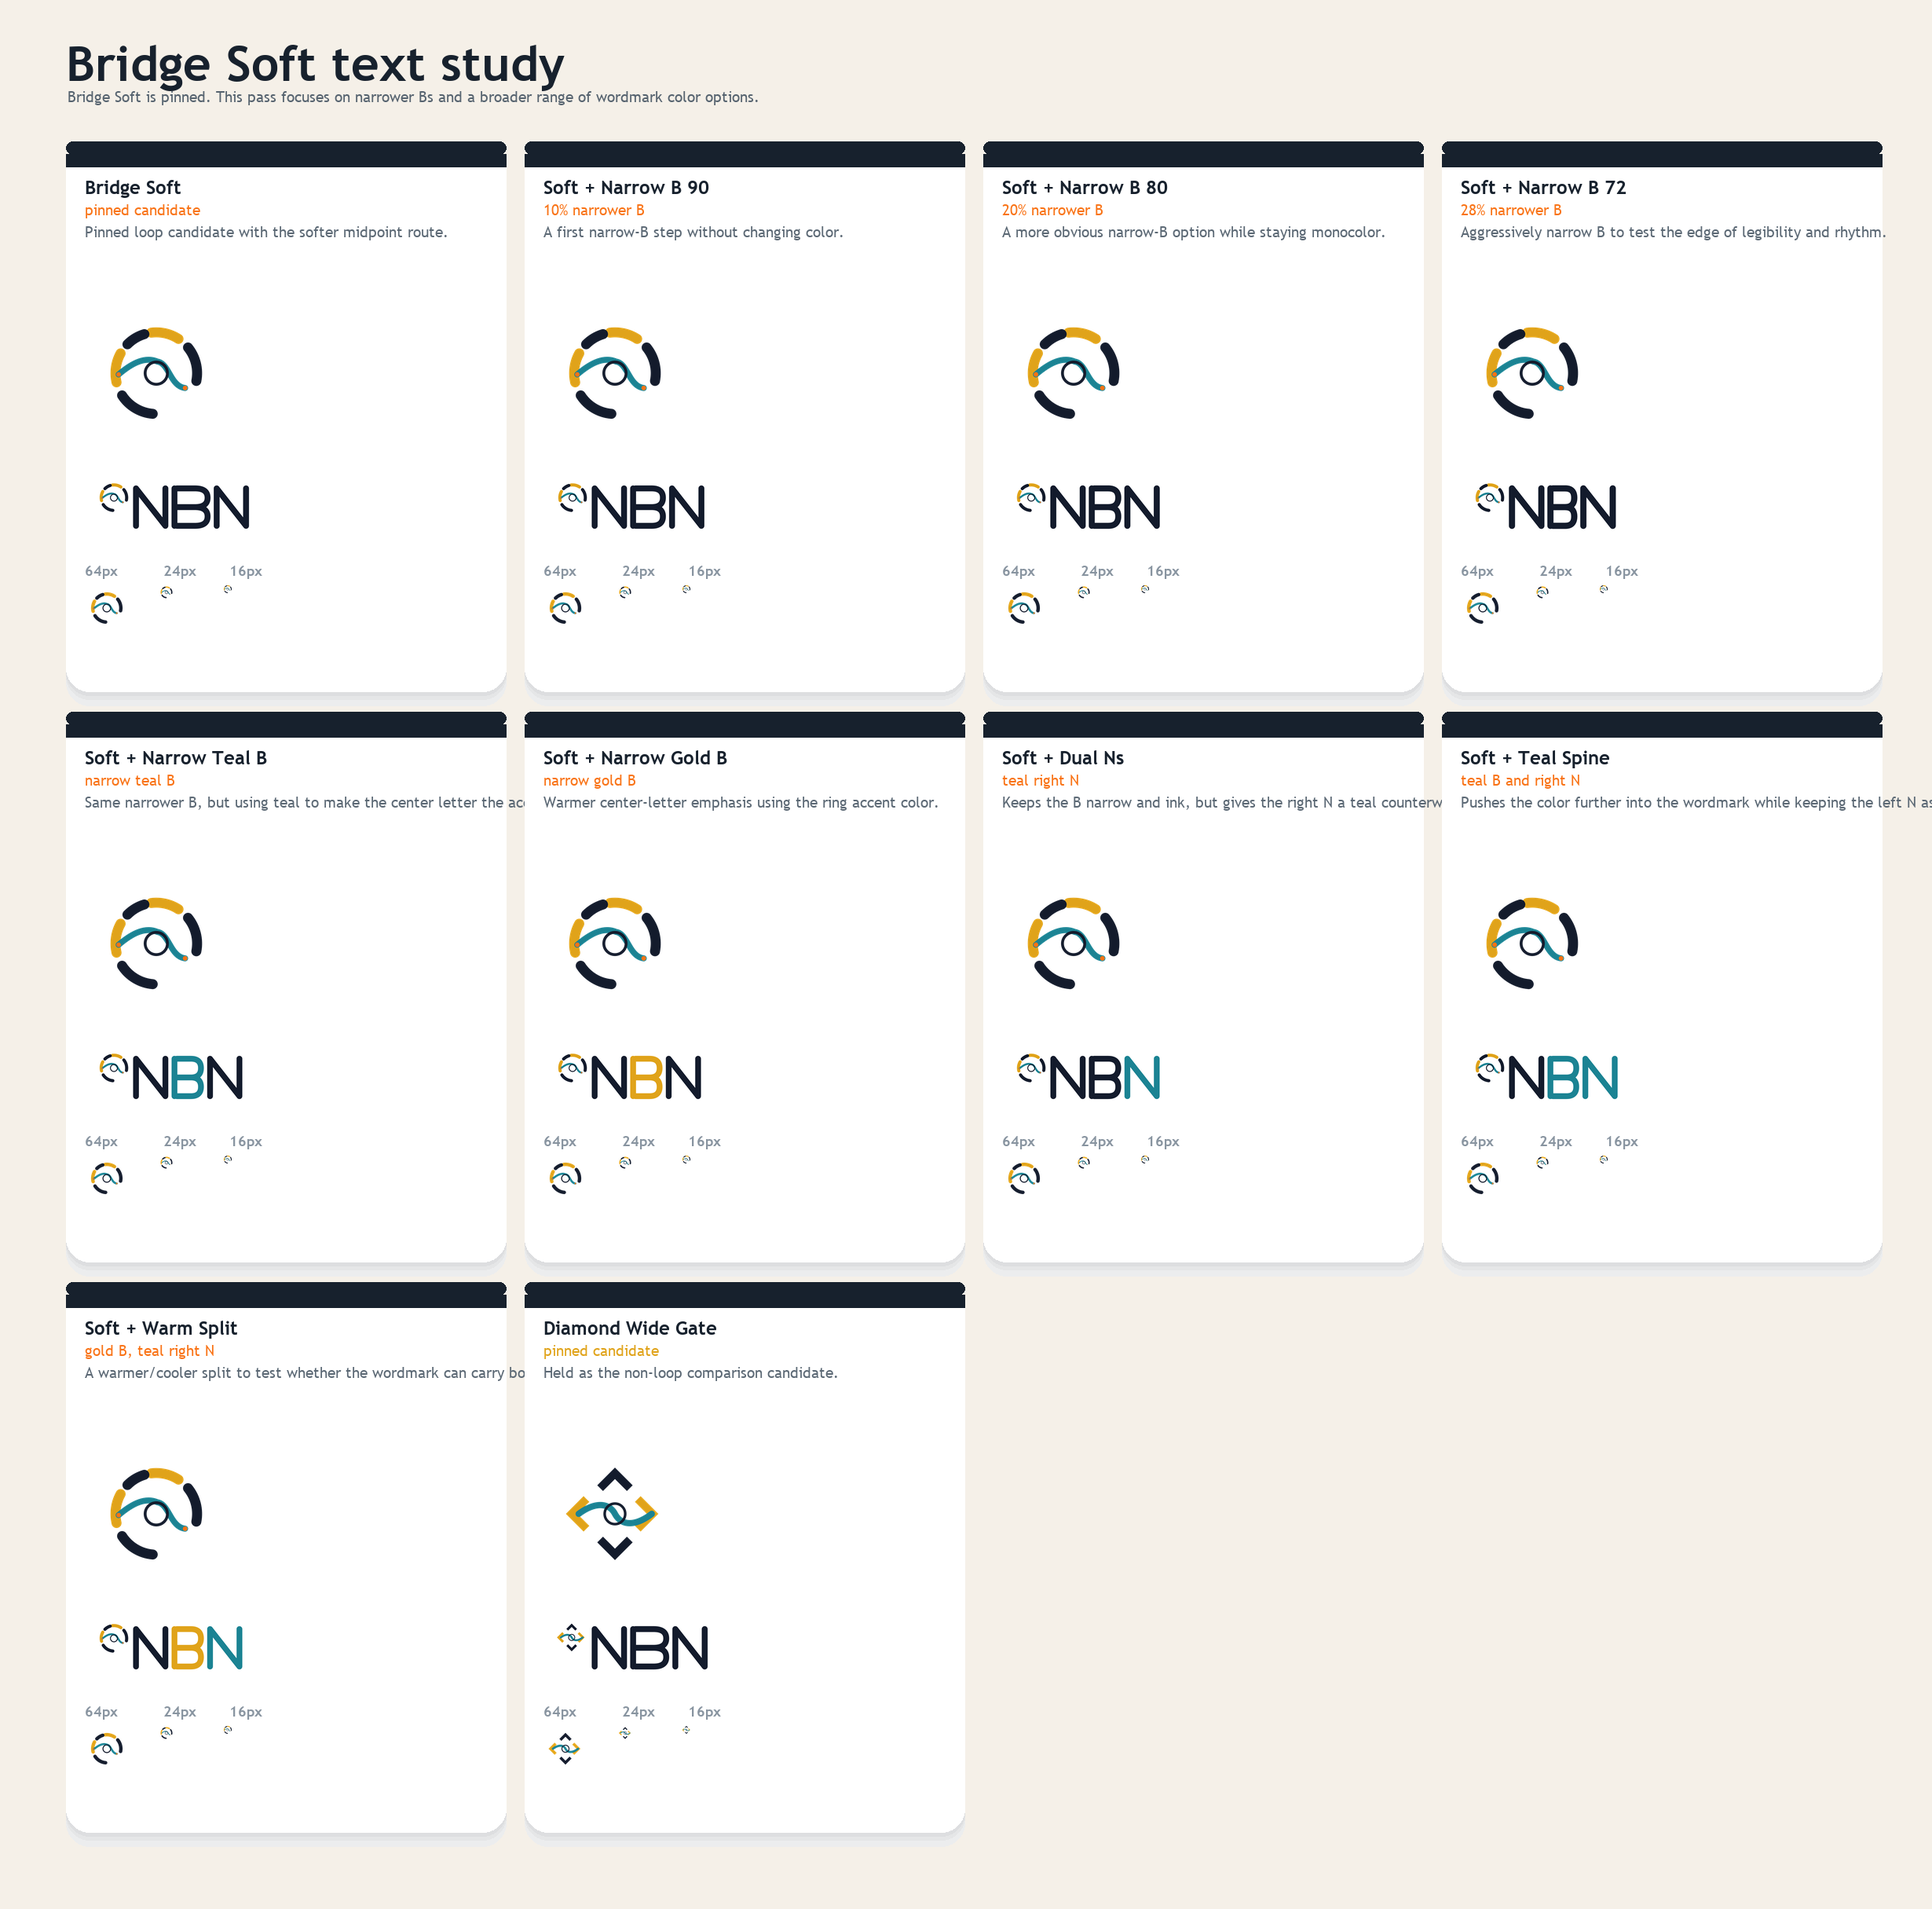
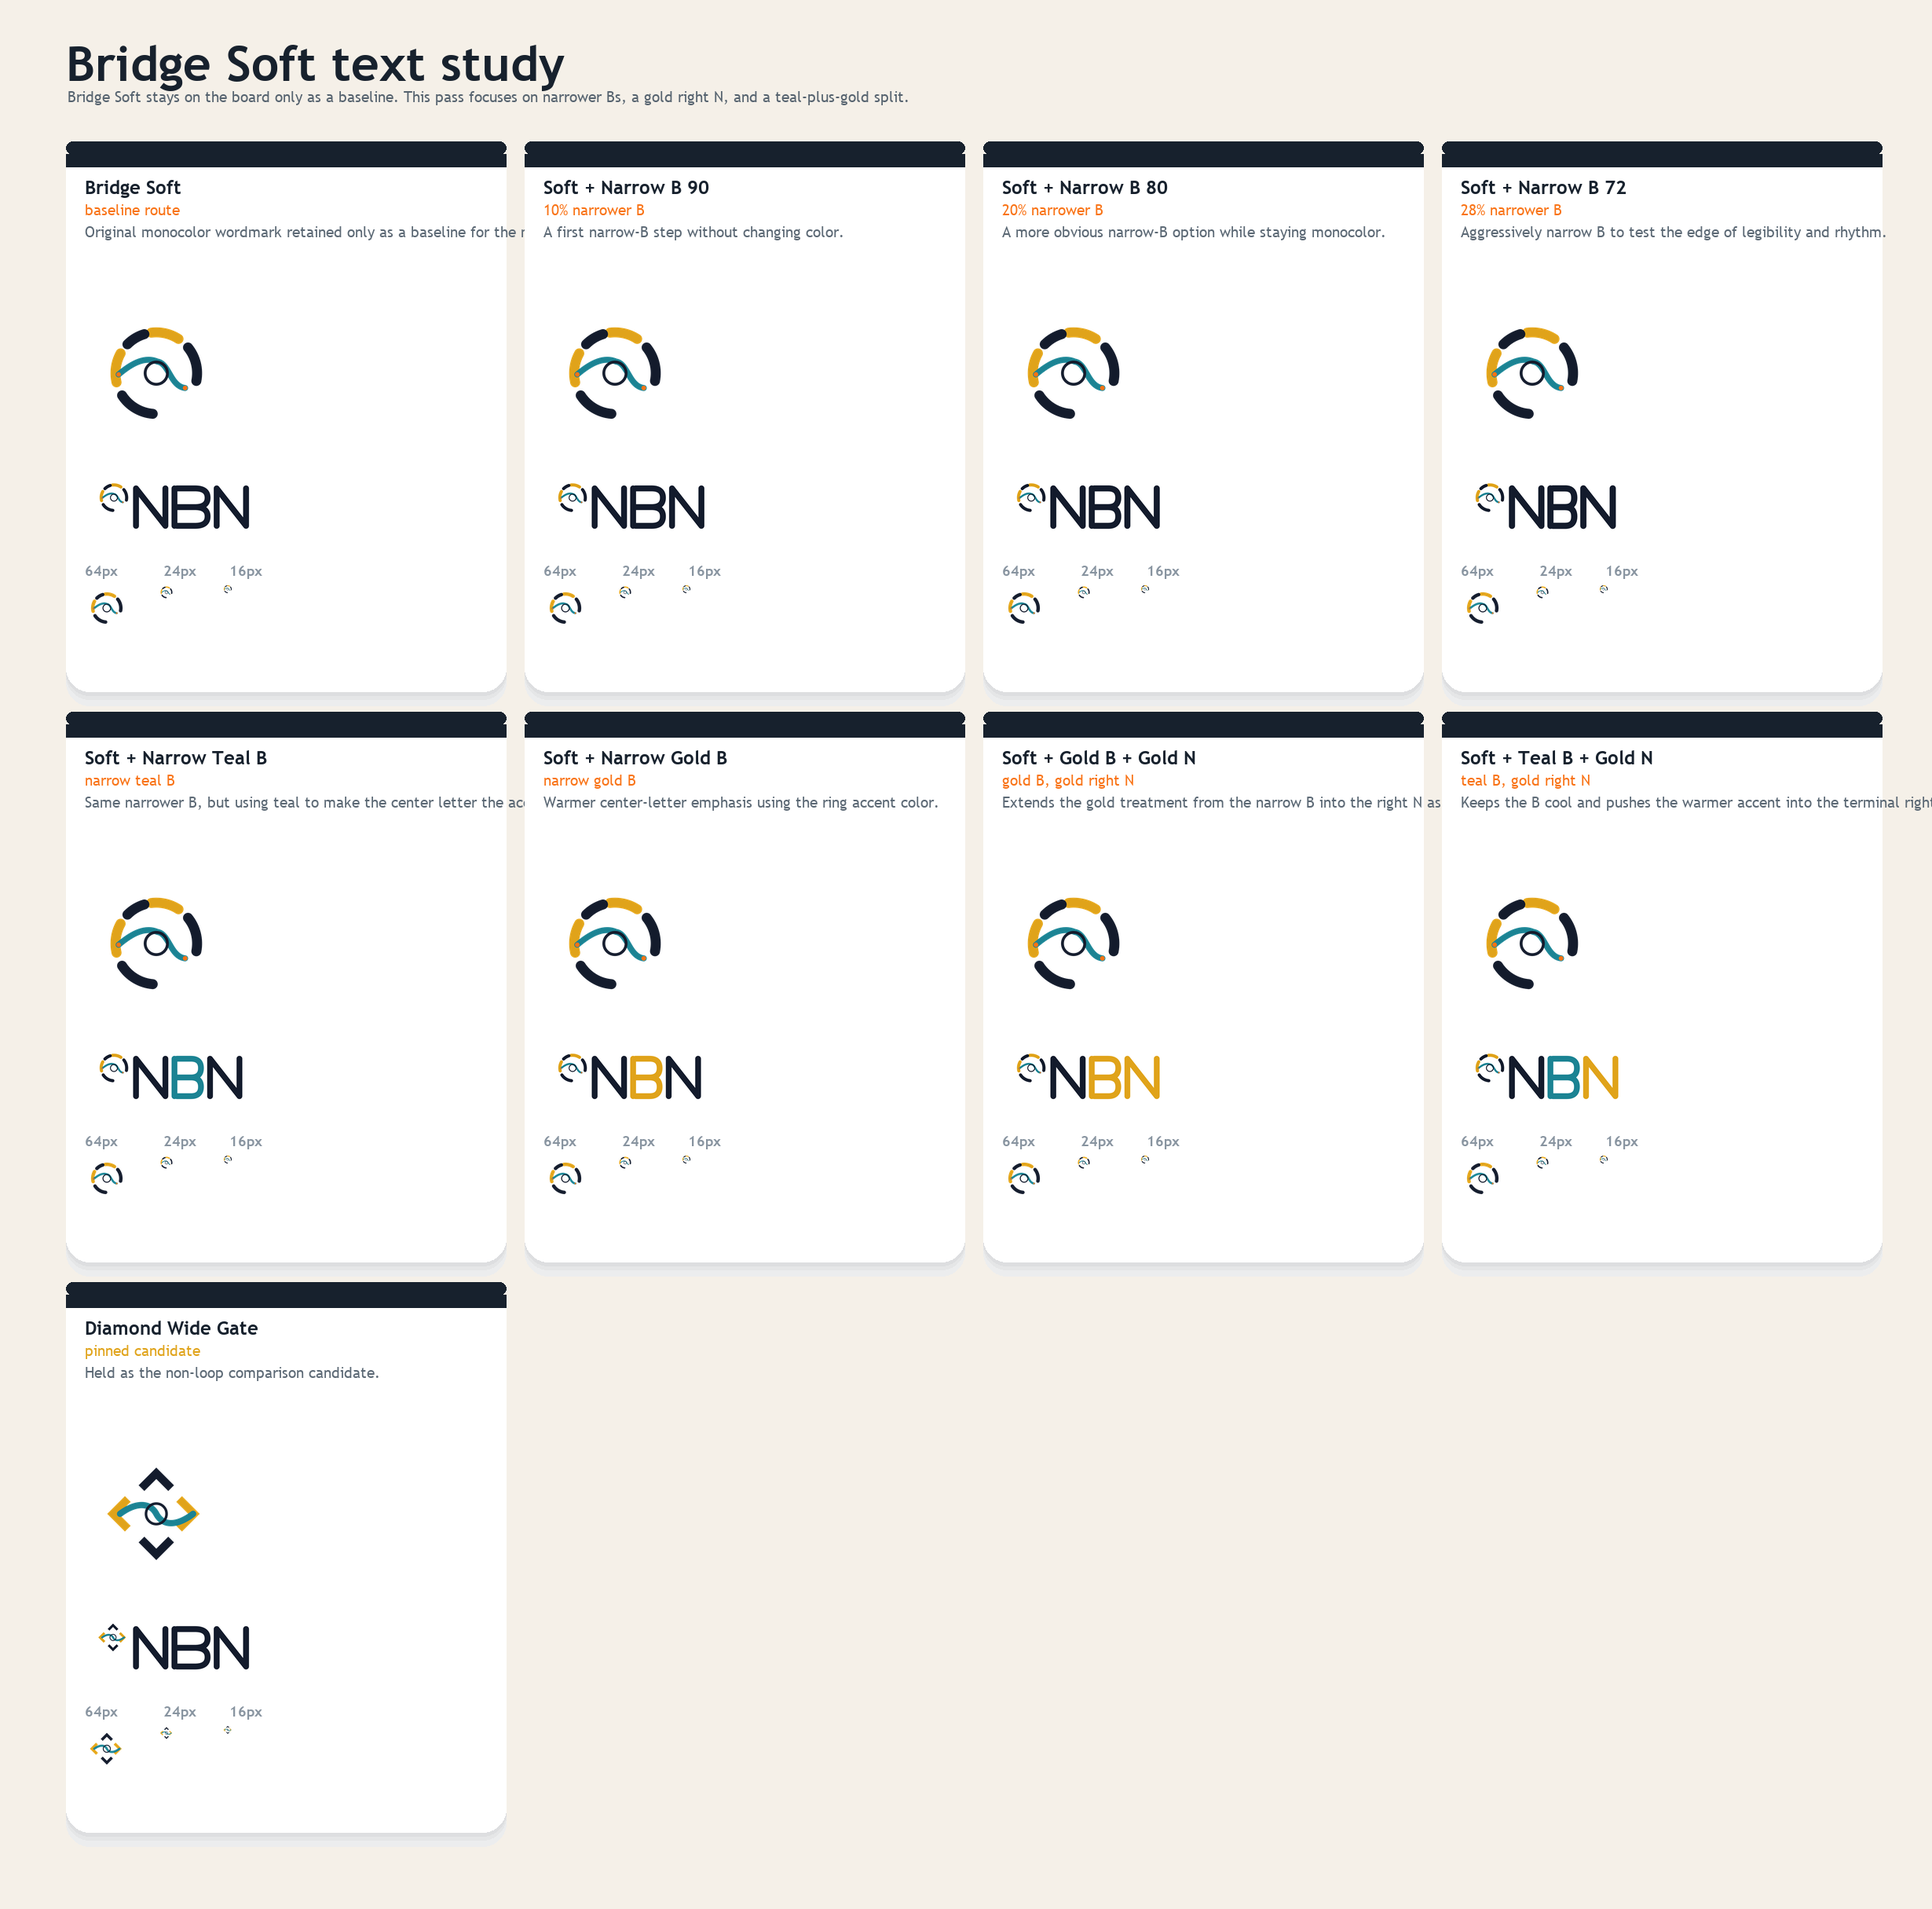
Refine round-nine wordmark variants

diff --git a/docs/branding/round9/generate_assets.py b/docs/branding/round9/generate_assets.py
@@ -276,8 +276,8 @@ VARIANTS = [
         slug="bridge-soft-pin",
         title="Bridge Soft",
         kind="loop",
-        tweak="pinned candidate",
-        note="Pinned loop candidate with the softer midpoint route.",
+        tweak="baseline route",
+        note="Original monocolor wordmark retained only as a baseline for the narrow-B color studies.",
     ),
     Variant(
         slug="bridge-soft-narrow-b-90",
@@ -326,36 +326,26 @@ VARIANTS = [
         b_color="#E0A31A",
     ),
     Variant(
-        slug="bridge-soft-dual-ns",
-        title="Soft + Dual Ns",
+        slug="bridge-soft-gold-right-n",
+        title="Soft + Gold B + Gold N",
         kind="loop",
-        tweak="teal right N",
-        note="Keeps the B narrow and ink, but gives the right N a teal counterweight.",
-        b_width_mult=0.80,
-        stroke_mult=0.98,
-        n2_color="#1B8393",
-    ),
-    Variant(
-        slug="bridge-soft-teal-spine",
-        title="Soft + Teal Spine",
-        kind="loop",
-        tweak="teal B and right N",
-        note="Pushes the color further into the wordmark while keeping the left N as anchor.",
-        b_width_mult=0.78,
-        stroke_mult=0.98,
-        b_color="#1B8393",
-        n2_color="#1B8393",
-    ),
-    Variant(
-        slug="bridge-soft-warm-split",
-        title="Soft + Warm Split",
-        kind="loop",
-        tweak="gold B, teal right N",
-        note="A warmer/cooler split to test whether the wordmark can carry both accent hues.",
+        tweak="gold B, gold right N",
+        note="Extends the gold treatment from the narrow B into the right N as well.",
         b_width_mult=0.80,
         stroke_mult=0.98,
         b_color="#E0A31A",
-        n2_color="#1B8393",
+        n2_color="#E0A31A",
+    ),
+    Variant(
+        slug="bridge-soft-teal-b-gold-n",
+        title="Soft + Teal B + Gold N",
+        kind="loop",
+        tweak="teal B, gold right N",
+        note="Keeps the B cool and pushes the warmer accent into the terminal right N.",
+        b_width_mult=0.80,
+        stroke_mult=0.98,
+        b_color="#1B8393",
+        n2_color="#E0A31A",
     ),
     Variant(
         slug="diamond-wide-gate-candidate",
@@ -425,7 +415,7 @@ def build_board() -> None:
     micro_font = load_font(18, bold=True)
 
     draw.text((84, 44), "Bridge Soft text study", fill="#17212D", font=title_font)
-    draw.text((86, 112), "Bridge Soft is pinned. This pass focuses on narrower Bs and a broader range of wordmark color options.", fill="#56636F", font=body_font)
+    draw.text((86, 112), "Bridge Soft stays on the board only as a baseline. This pass focuses on narrower Bs, a gold right N, and a teal-plus-gold split.", fill="#56636F", font=body_font)
 
     card_w = 560
     card_h = 700
@@ -467,20 +457,19 @@ def build_board() -> None:
 
 def build_shortlist() -> None:
     shortlist = [
-        "bridge-soft-pin",
-        "bridge-soft-narrow-b-80",
-        "bridge-soft-narrow-teal-b",
-        "bridge-soft-teal-spine",
+        "bridge-soft-narrow-gold-b",
+        "bridge-soft-gold-right-n",
+        "bridge-soft-teal-b-gold-n",
         "diamond-wide-gate-candidate",
     ]
-    board = Image.new("RGBA", (2720, 1100), "#F7F3EC")
+    board = Image.new("RGBA", (2200, 1100), "#F7F3EC")
     draw = ImageDraw.Draw(board)
     title_font = load_font(58, bold=True)
     body_font = load_font(24)
     label_font = load_font(28, bold=True)
 
     draw.text((96, 56), "Round 9 shortlist", fill="#17212D", font=title_font)
-    draw.text((98, 124), "Bridge Soft pinned, stronger narrow-B text options, and Diamond Wide Gate for comparison.", fill="#56636F", font=body_font)
+    draw.text((98, 124), "Narrow Gold B leads the loop direction, with two right-N color splits and Diamond Wide Gate for comparison.", fill="#56636F", font=body_font)
 
     for index, slug in enumerate(shortlist):
         variant = next(item for item in VARIANTS if item.slug == slug)

diff --git a/docs/branding/round9/README.md b/docs/branding/round9/README.md
@@ -1,12 +1,12 @@
 # NBN Logo Exploration Round 9
 
-Round nine keeps `55deg Bridge Soft` pinned as the loop candidate and shifts the study almost entirely into text treatment.
+Round nine keeps the `Bridge Soft` route on the board only as a baseline and shifts the study almost entirely into text treatment around `Soft + Narrow Gold B`.
 
 Focus areas:
 
 - narrower `B` widths
-- a few stroke-weight shifts
-- more `NBN` color options
+- gold right-`N` variants
+- teal and gold wordmark splits
 
 `Diamond Wide Gate` remains pinned as the non-loop comparison candidate.
 
@@ -22,18 +22,16 @@ Focus areas:
 - `Soft + Narrow B 72`
 - `Soft + Narrow Teal B`
 - `Soft + Narrow Gold B`
-- `Soft + Dual Ns`
-- `Soft + Teal Spine`
-- `Soft + Warm Split`
+- `Soft + Gold B + Gold N`
+- `Soft + Teal B + Gold N`
 
 ## Current shortlist
 
 The strongest set in this pass is:
 
-- `Bridge Soft`
-- `Soft + Narrow B 80`
-- `Soft + Narrow Teal B`
-- `Soft + Warm Split`
+- `Soft + Narrow Gold B`
+- `Soft + Gold B + Gold N`
+- `Soft + Teal B + Gold N`
 
 `Diamond Wide Gate` remains pinned for comparison.
 

diff --git a/docs/branding/README.md b/docs/branding/README.md
@@ -4,7 +4,7 @@ This workspace explores possible `NBN` identity directions without any `v2` lang
 
 ## Latest round
 
-The current exploration is in [round9/README.md](round9/README.md). It pins `Bridge Soft` as the loop candidate and focuses on narrower `B` widths plus a broader set of wordmark color treatments.
+The current exploration is in [round9/README.md](round9/README.md). It keeps `Bridge Soft` only as a baseline, pushes `Soft + Narrow Gold B` forward, and compares it against gold right-`N` and teal-plus-gold wordmark treatments.
 
 The previous bridge and wordmark study remains in [round8/README.md](round8/README.md).
 
